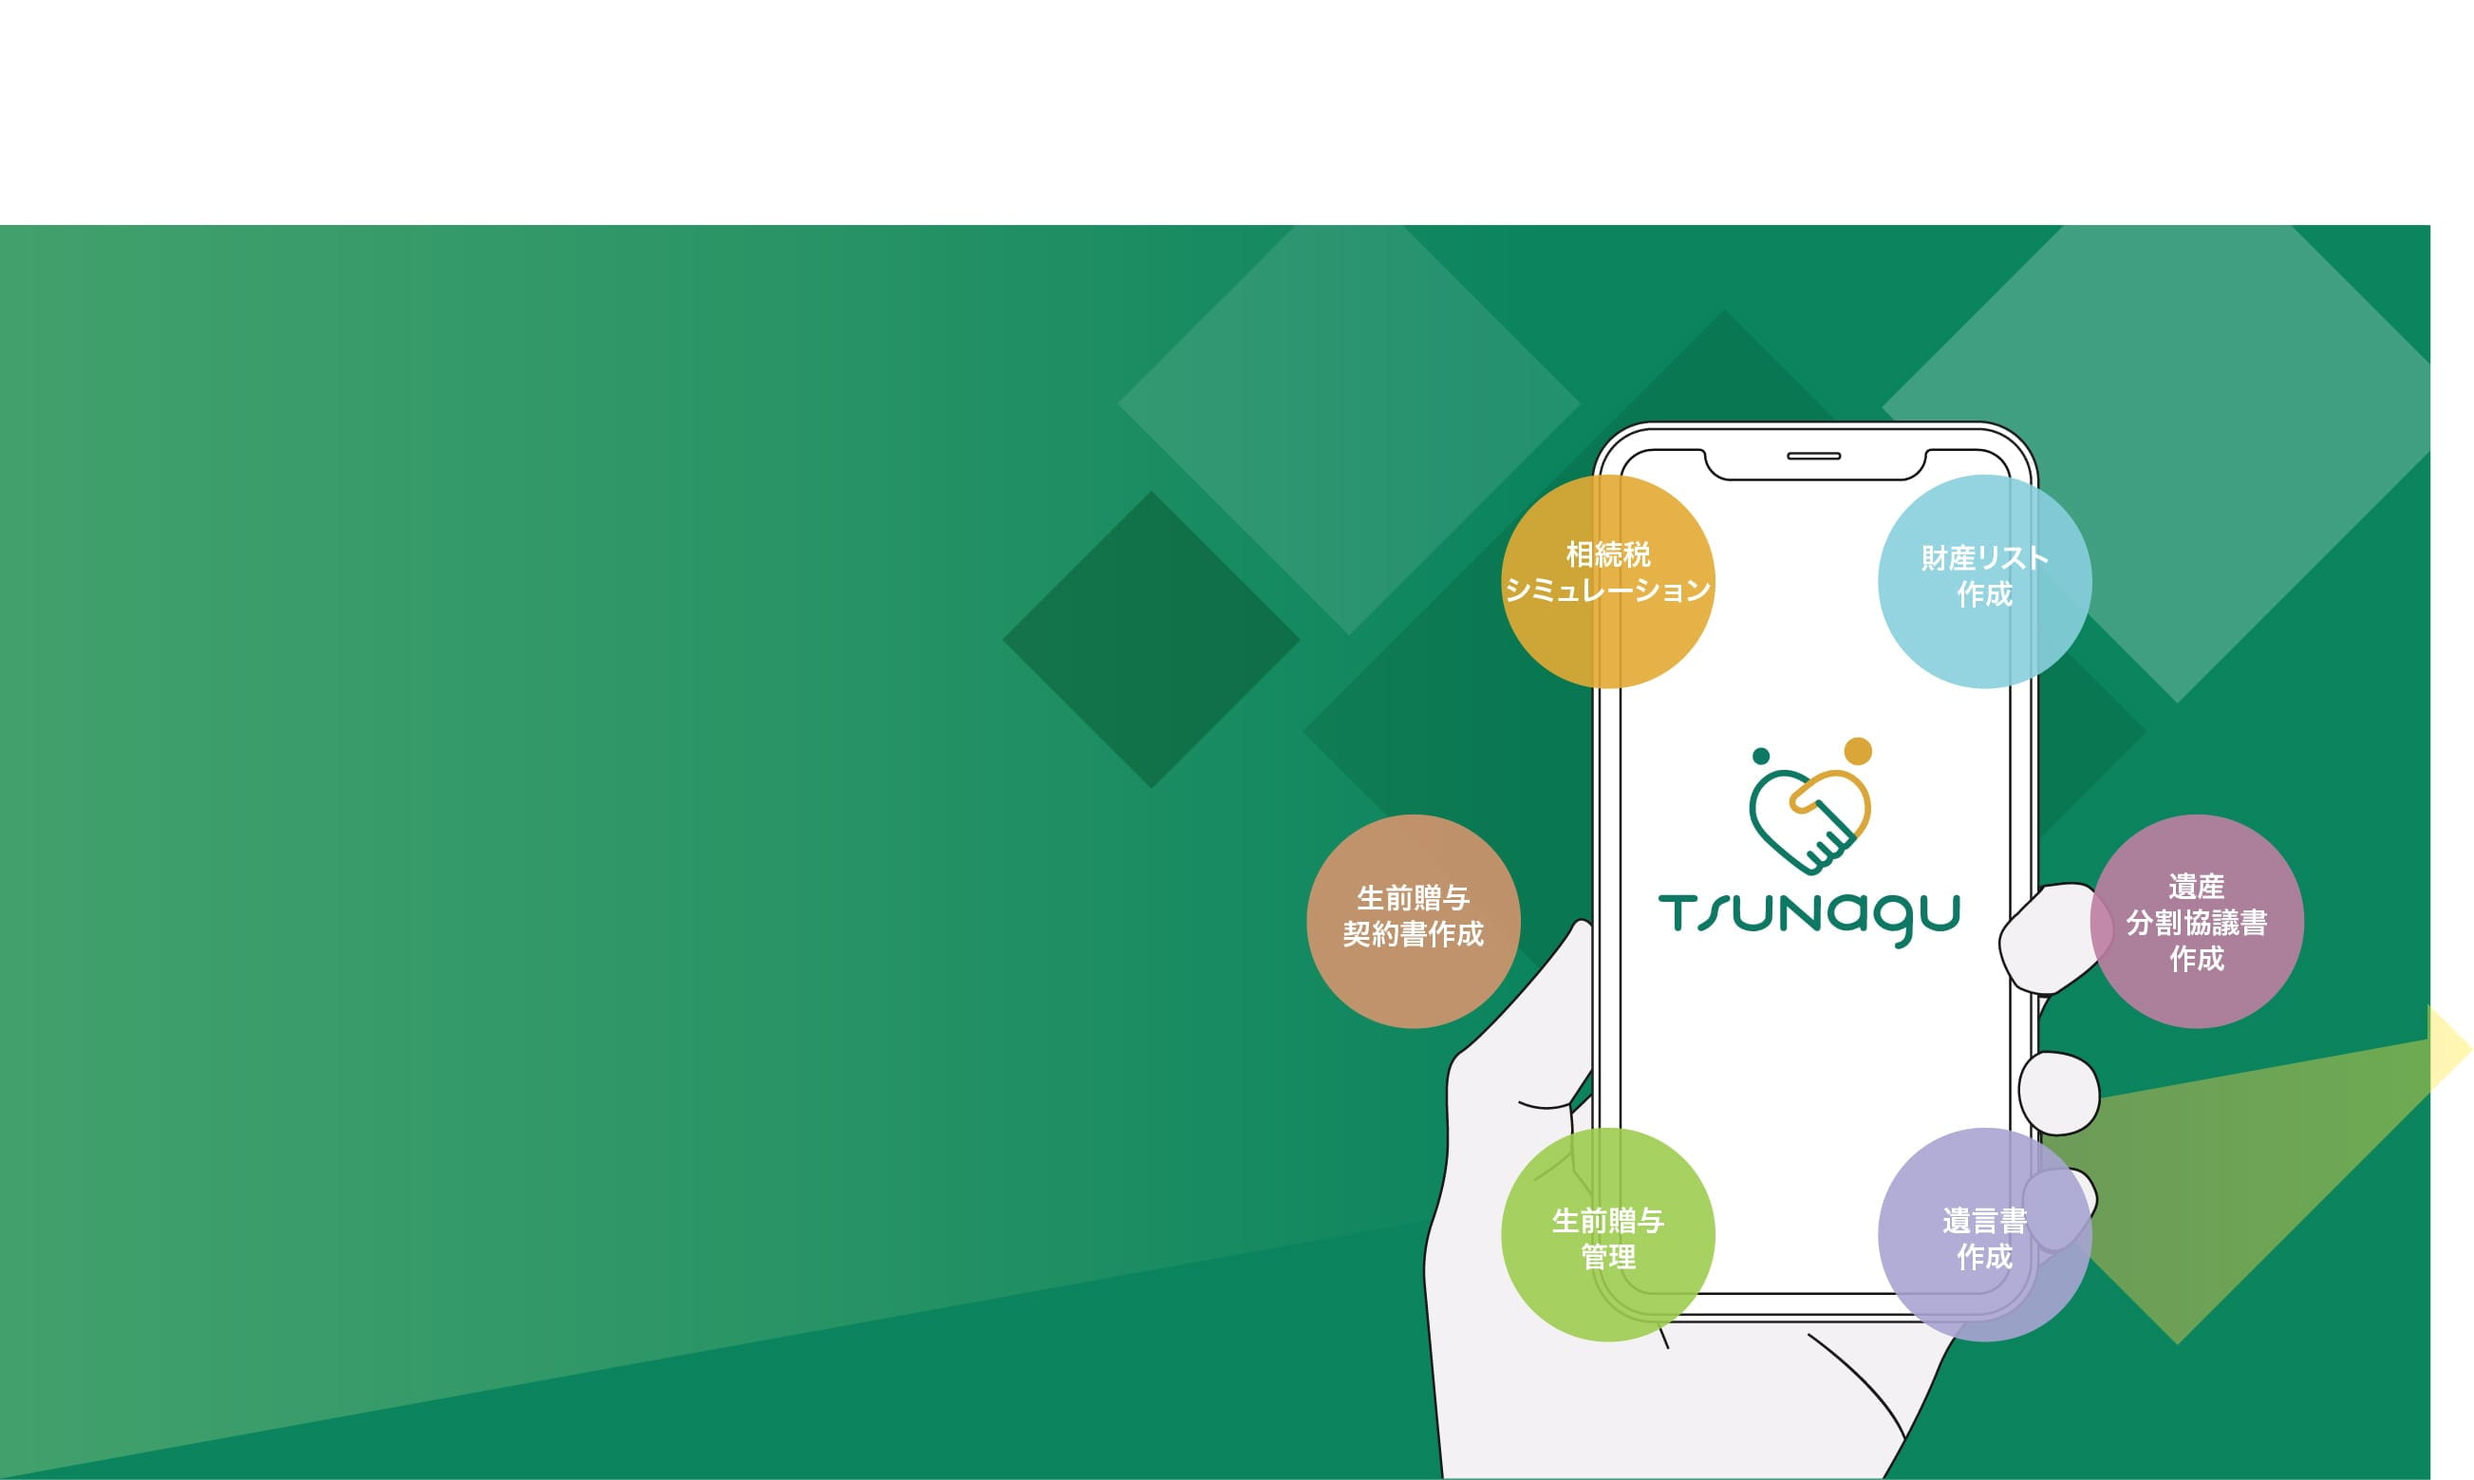
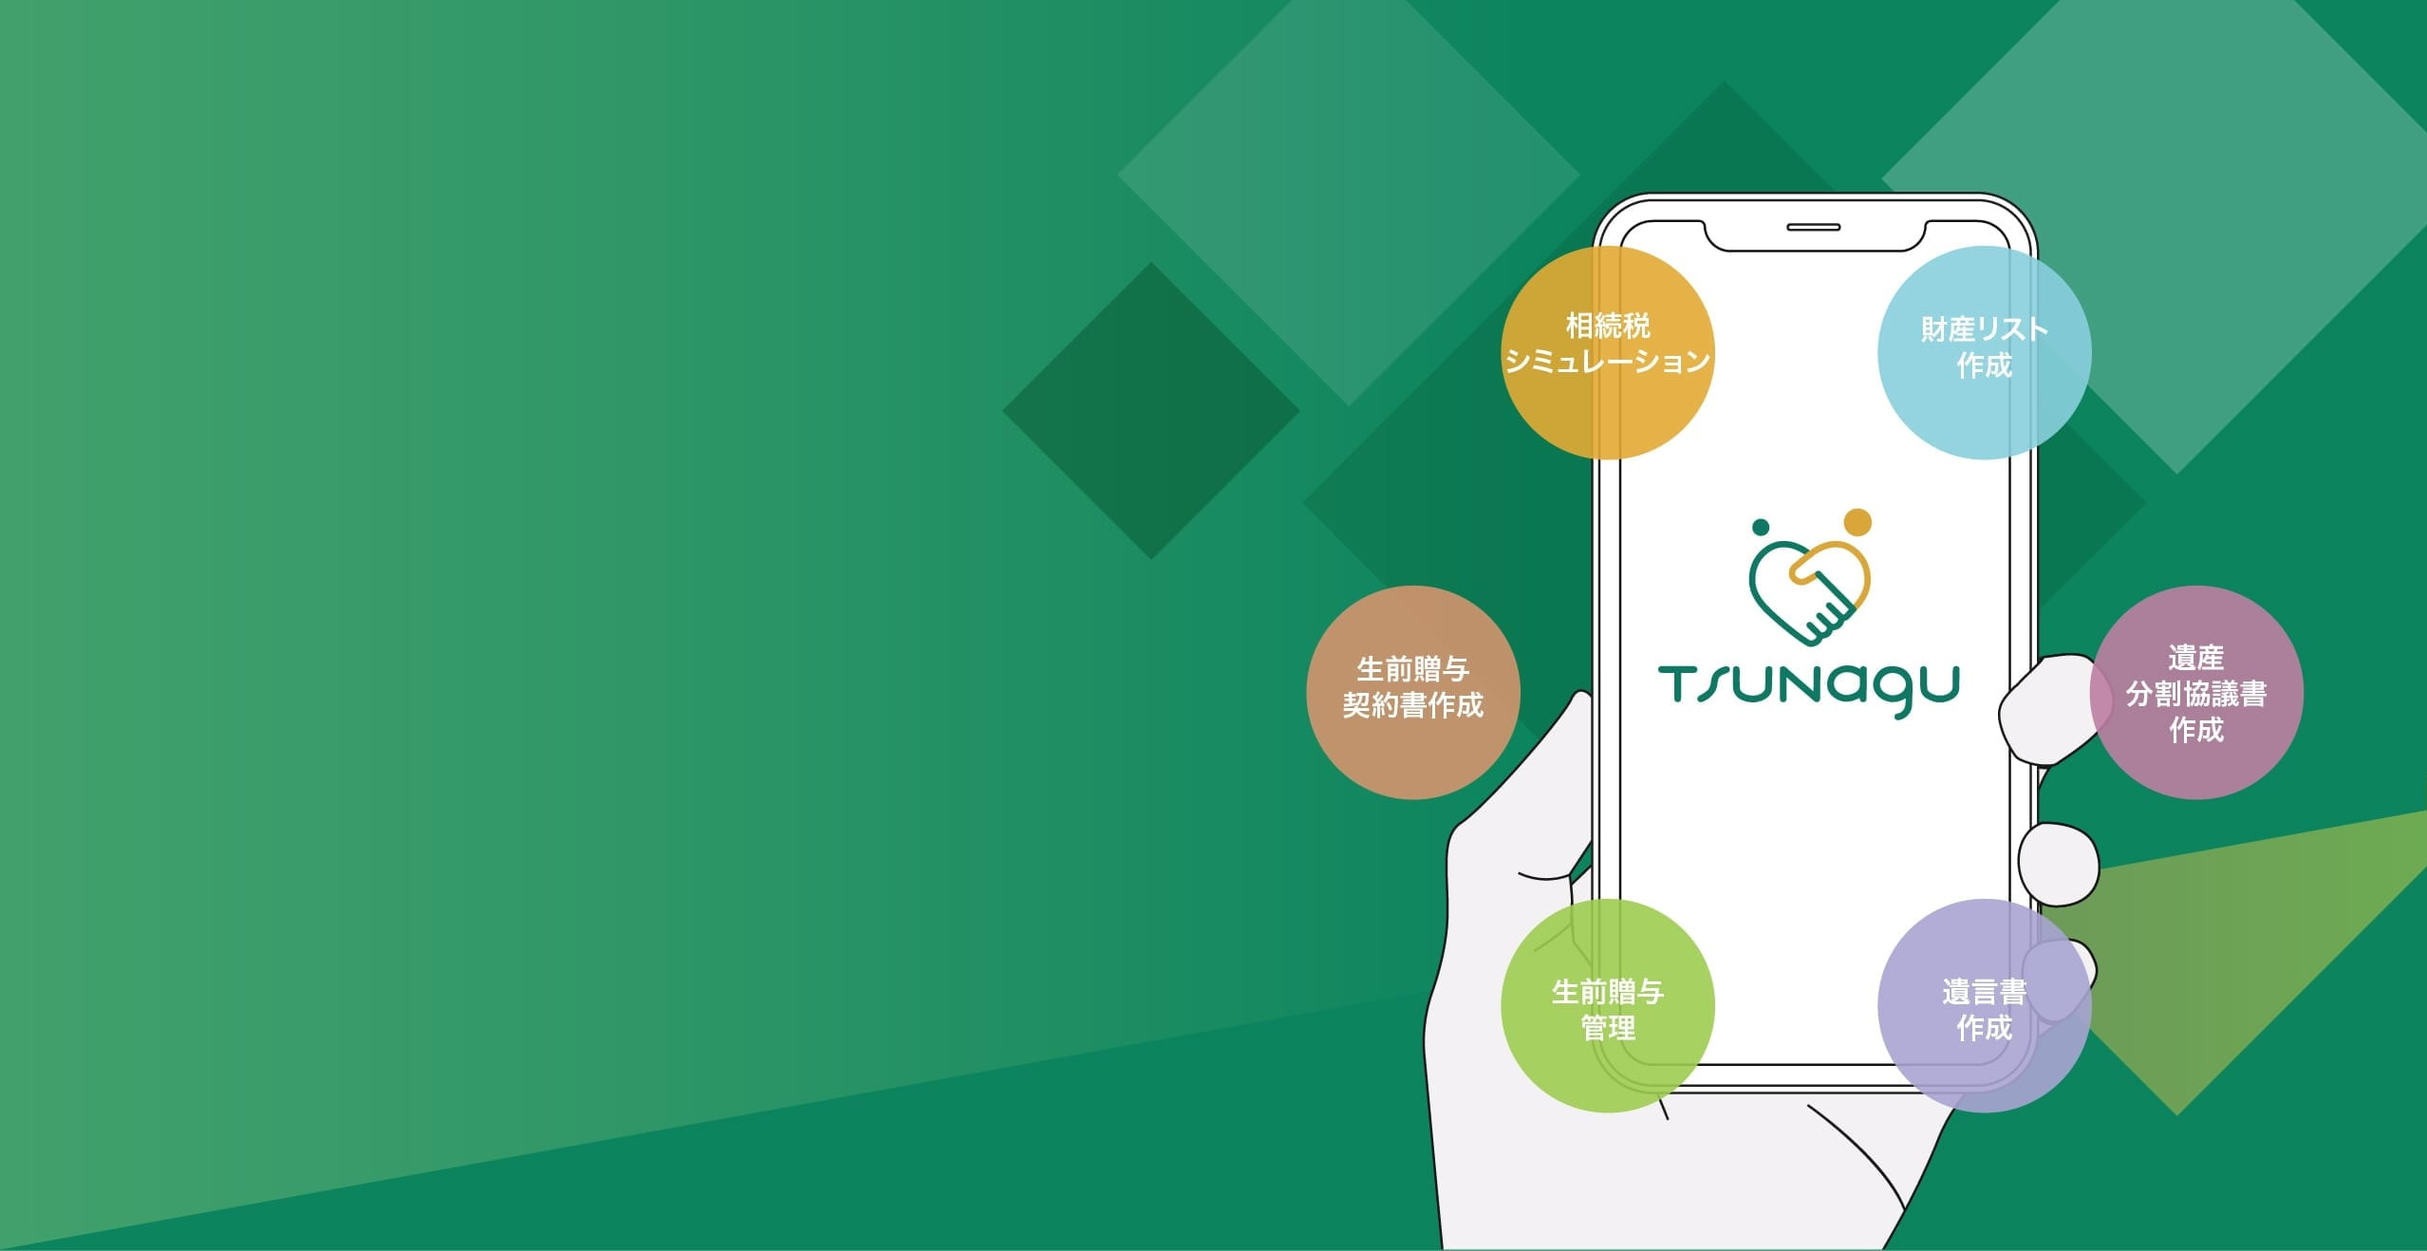
・meta情報のタイトル変更 ・p-tsunagu-mv 　backgroundの画像の不要部分削除 ・p-tsunagu-about 　タイトルに"?"追加 　タイトルの画像部分の位置調整 　フォントサイズ調整
・p-tsunagu-can
　タイトルの不要な改行削除
　headの文言変更配置調整
　要素の配置調整
・p-tsunagu-can-function
　タイトルをh2→h3に変更
　fontSize調整
　リストの配置調整
・p-tsunagu-can-how
　リストの並び順、配置調整

diff --git a/index.html b/index.html
@@ -6,7 +6,7 @@
   <meta name="viewport" content="width=device-width,initial-scale=1.0" />
   <meta name="format-detection" content="telephone=no" />
   <!-- meta情報 -->
-  <title>タイトル</title>
+  <title>【TSUNAGU（つなぐ）】遺産相続・生前贈与管理アプリで相続の専門家とつながる相続・贈与DXサービス</title>
   <meta name="description" content="" />
   <meta name="keywords" content="" />
   <!-- ogp -->
@@ -40,7 +40,7 @@
   <section class="p-tsunagu-about">
     <div class="l-inner">
       <h2 class="p-tsunagu-about__title c-section-title">
-        <img src="./assets/images/tsumugi/logo-green.png" alt="tsumugi" width="185" height="35" loading="lazy">とは
+        <img src="./assets/images/tsumugi/logo-green.png" alt="tsumugi" width="185" height="35" loading="lazy">とは?
       </h2>
       <p class="p-tsunagu-about__text l-center">
         資産承継領域における専門事業者様向けの「相続・贈与」管理アプリ。<br>
@@ -142,9 +142,8 @@
   </section>
 
   <section class="p-tsunagu-can">
-    <div class="p-tsunagu-can__inner l-inner">
-      <h2 class="c-section-title">「TSUNAGUアプリ」で<br class="u-mobile">
-        できること</h2>
+    <div class="p-tsunagu-can__inner">
+      <h2 class="c-section-title">「TSUNAGUアプリ」で<br class="u-mobile">できること</h2>
       <ul class="p-tsunagu-can__list">
         <li class="p-tsunagu-can__item">
           <div class="p-tsunagu-can__item-img">
@@ -152,9 +151,9 @@
               <source srcset="./assets/images/tsumugi/can-img01.jpg" media="(min-width: 768px)" type="image/jpg">
               <img src="./assets/images/tsumugi/sp_can-img01.jpg" width="749" height="411" alt="" class="lazyload">
             </picture>
-            <div class="p-tsunagu-can__head"><span>01</span>simulation</div>
           </div>
           <div class="p-tsunagu-can__item-body">
+            <div class="p-tsunagu-can__head"><span>01</span> simulation</div>
             <div class="p-tsunagu-can__item-title">
               <div class="u-mobile">
                 <span>相続税のシミュレーションや</span>
@@ -179,9 +178,9 @@
               <source srcset="./assets/images/tsumugi/can-img02.jpg" media="(min-width: 768px)" type="image/jpg">
               <img src="./assets/images/tsumugi/sp_can-img02.jpg" width="749" height="411" alt="" class="lazyload">
             </picture>
-            <div class="p-tsunagu-can__head"><span>02</span>simulation</div>
           </div>
           <div class="p-tsunagu-can__item-body">
+            <div class="p-tsunagu-can__head"><span>02</span> Will/Inheritance</div>
             <p class="p-tsunagu-can__item-title">
               <span>スマホアプリから司法書士監修の</span>
               <span>遺言書・遺産分割協議書の作成</span>
@@ -197,9 +196,9 @@
               <source srcset="./assets/images/tsumugi/can-img03.jpg" media="(min-width: 768px)" type="image/jpg">
               <img src="./assets/images/tsumugi/sp_can-img03.jpg" width="749" height="411" alt="" class="lazyload">
             </picture>
-            <div class="p-tsunagu-can__head"><span>03</span>simulation</div>
           </div>
           <div class="p-tsunagu-can__item-body">
+            <div class="p-tsunagu-can__head"><span>03</span> Mitigation</div>
             <p class="p-tsunagu-can__item-title">
               <span>まるで近くにいるように</span>
               <span>お客様との密なコミュニケーション</span>
@@ -216,7 +215,7 @@
 
   <section class="p-tsunagu-can-function">
     <div class="l-inner">
-      <h3 class="p-tsunagu-can-function__title">TSUNAGUアプリの主要な機能</h3>
+      <h2 class="p-tsunagu-can-function__title">TSUNAGUアプリの主要な機能</h2>
       <ul class="p-tsunagu-can-function__list">
         <li class="p-tsunagu-can-function__item">相続関係図の作成</li>
         <li class="p-tsunagu-can-function__item">財産リストの作成</li>

diff --git a/assets/css/styles.css b/assets/css/styles.css
@@ -242,9 +242,14 @@ button {
   padding-bottom: 1.5rem;
   text-align: center;
 }
+
+.p-tsunagu-about__title > img{
+  transform: translateY(3px);
+}
+
 @media screen and (min-width: 768px) {
   .c-section-title {
-    font-size: max(2.25rem, 12px);
+    font-size: max(36px, 12px);
     line-height: 1.25;
   }
 }
@@ -410,6 +415,9 @@ button {
 @media screen and (min-width: 768px) {
   .p-tsunagu-can__inner {
     max-width: calc(74.375rem + 50px);
+    margin-left:auto;
+    margin-right:auto;
+    gap:0.5rem;
   }
 }
 
@@ -417,21 +425,32 @@ button {
   padding-top: 2.5rem;
 }
 
+
+
 @media screen and (min-width: 768px) {
   .p-tsunagu-can__item {
     position: relative;
   }
 }
 .p-tsunagu-can__item + .p-tsunagu-can__item {
-  margin-top: 2.5rem;
+  margin-top: 4.5rem;
 }
 @media screen and (min-width: 768px) {
   .p-tsunagu-can__item:nth-child(odd) .p-tsunagu-can__item-img {
     margin-left: auto;
+    display: flex;
+    flex-direction: row;
+    justify-content: flex-end;
   }
 }
 @media screen and (min-width: 768px) {
   .p-tsunagu-can__item:nth-child(even) .p-tsunagu-can__item-body {
+    left:auto;
+    top:-40px;
+    right: 0;
+  }
+  .p-tsunagu-can__list li:nth-child(2) > div > div{
+    left: auto;
     right: 0;
   }
 }
@@ -440,6 +459,8 @@ button {
   .p-tsunagu-can__item-body {
     position: absolute;
     top: 0;
+    padding-right: 1.25rem;
+    padding-left: 1.25rem;
   }
 }
 
@@ -467,6 +488,8 @@ button {
 }
 @media screen and (min-width: 768px) {
   .p-tsunagu-can__head {
+    position:absolute;
+    top:0;
     font-size: max(1.75rem, 12px);
     color: #365864;
   }
@@ -487,7 +510,7 @@ button {
 }
 
 .p-tsunagu-can__item-title {
-  margin-top: 2rem;
+  margin-top: 6rem;
 }
 .p-tsunagu-can__item-title span {
   display: block;
@@ -520,7 +543,7 @@ button {
   .p-tsunagu-can__item-text {
     background-color: #fff;
     padding: 1.875rem 1.4375rem;
-    font-size: max(1rem, 12px);
+    font-size: max(0.9rem, 12px);
     line-height: 1.75;
     width: 37.1875rem;
   }
@@ -597,7 +620,7 @@ button {
 .p-tsunagu-can-function__title {
   color: #365864;
   font-weight: 700;
-  font-size: max(1.4375rem, 12px);
+  font-size: max(36px, 12px);
   line-height: 1.3043478261;
   text-align: center;
 }
@@ -608,6 +631,15 @@ button {
   display: grid;
   grid-template-columns: 1fr 1fr;
   grid-template-rows: 1fr 1fr;
+}
+
+@media screen and (min-width:768px){
+  .p-tsunagu-can-function__list {
+    margin-top: 2.25rem;
+    gap: 0.375rem;
+    grid-template-columns: 1fr 1fr 1fr 1fr;
+    grid-template-rows: 1fr 1fr 1fr;
+  }
 }
 
 .p-tsunagu-can-function__item {
@@ -621,6 +653,11 @@ button {
   font-weight: 400;
 }
 
+@media screen and (min-width:768px){
+  .p-tsunagu-can-function__item{
+    font-size: 16px;
+  }
+}
 .p-tsunagu-faq {
   background-color: #f6f1e9;
 }
@@ -694,10 +731,26 @@ button {
   gap: 1.25rem;
 }
 
+@media screen and (min-width:768px) {
+  .p-tsunagu-how__list {
+    margin-top: 2.5rem;
+    display: flex;
+    flex-direction: row;
+    justify-content: center;
+    gap: 1.25rem;
+  }    
+}
+
 .p-tsunagu-how__item {
   padding: 1.875rem;
   background-color: #eddc8a;
   border-radius: 13px;
+}
+
+@media screen and (min-width:768px) {
+  .p-tsunagu-how__item {
+    width:40%;
+  }    
 }
 
 .p-tsunagu-how__title {
